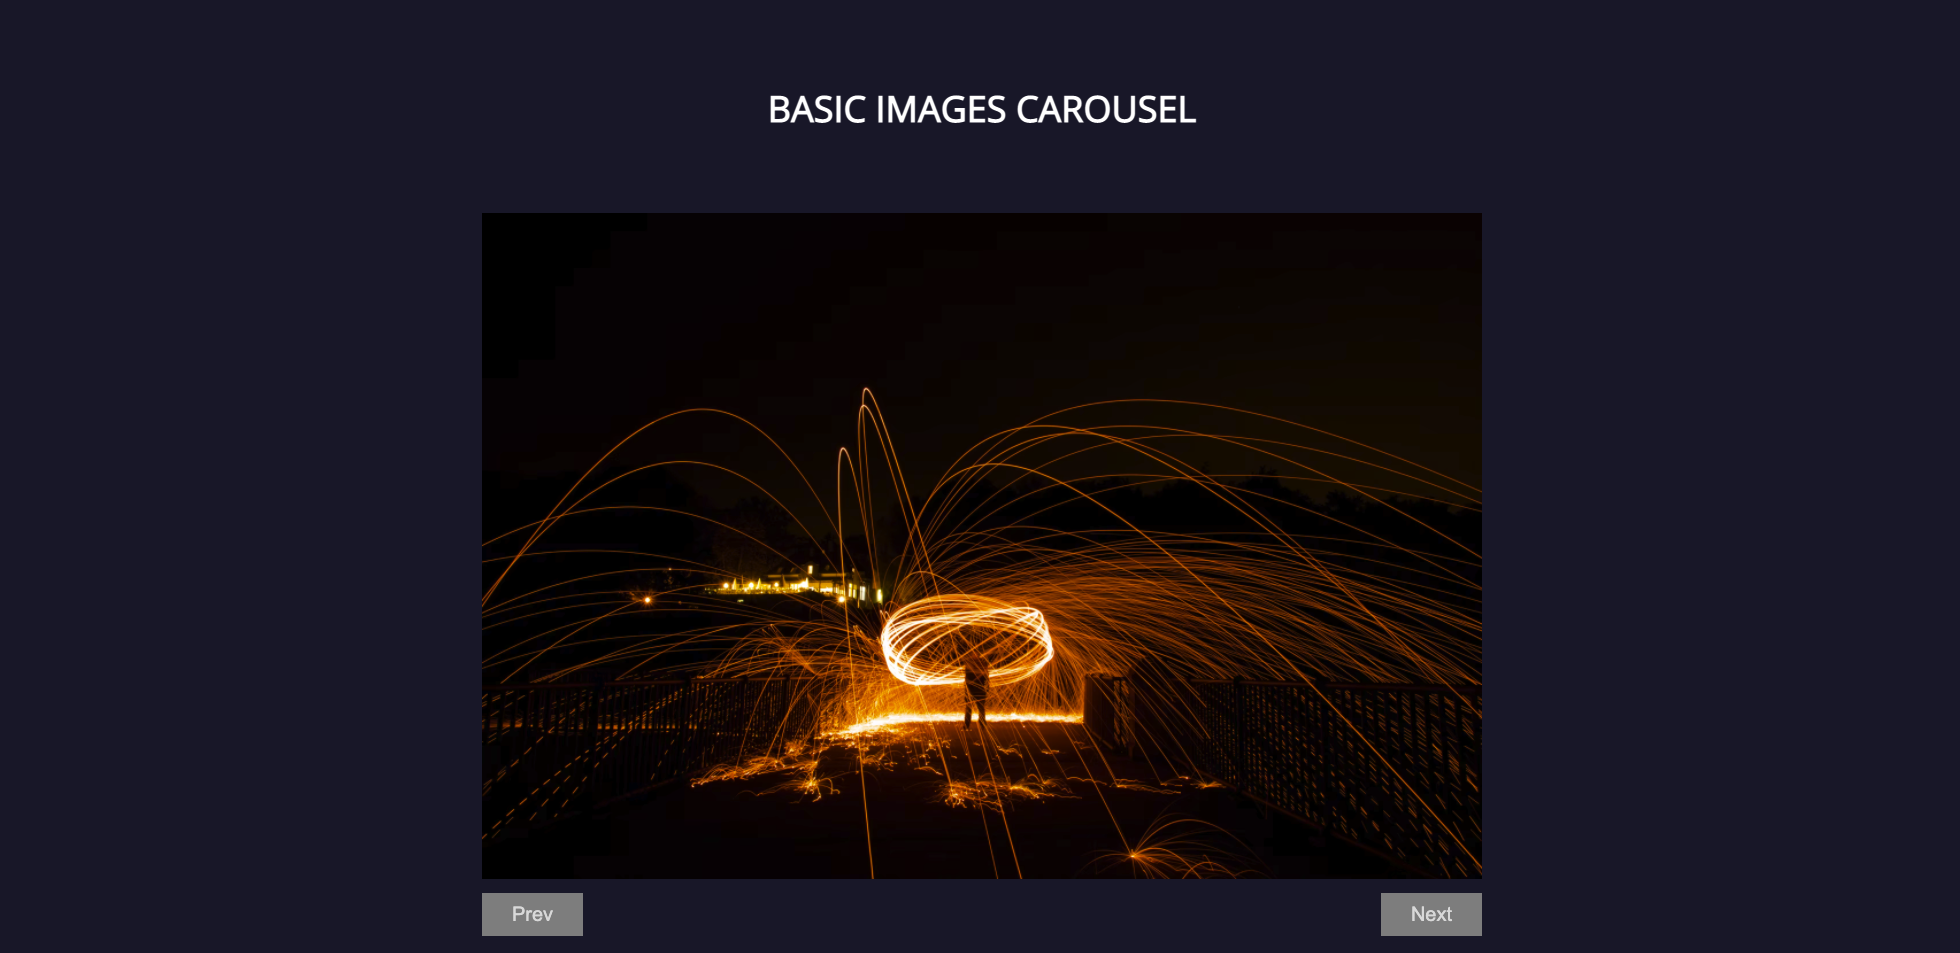
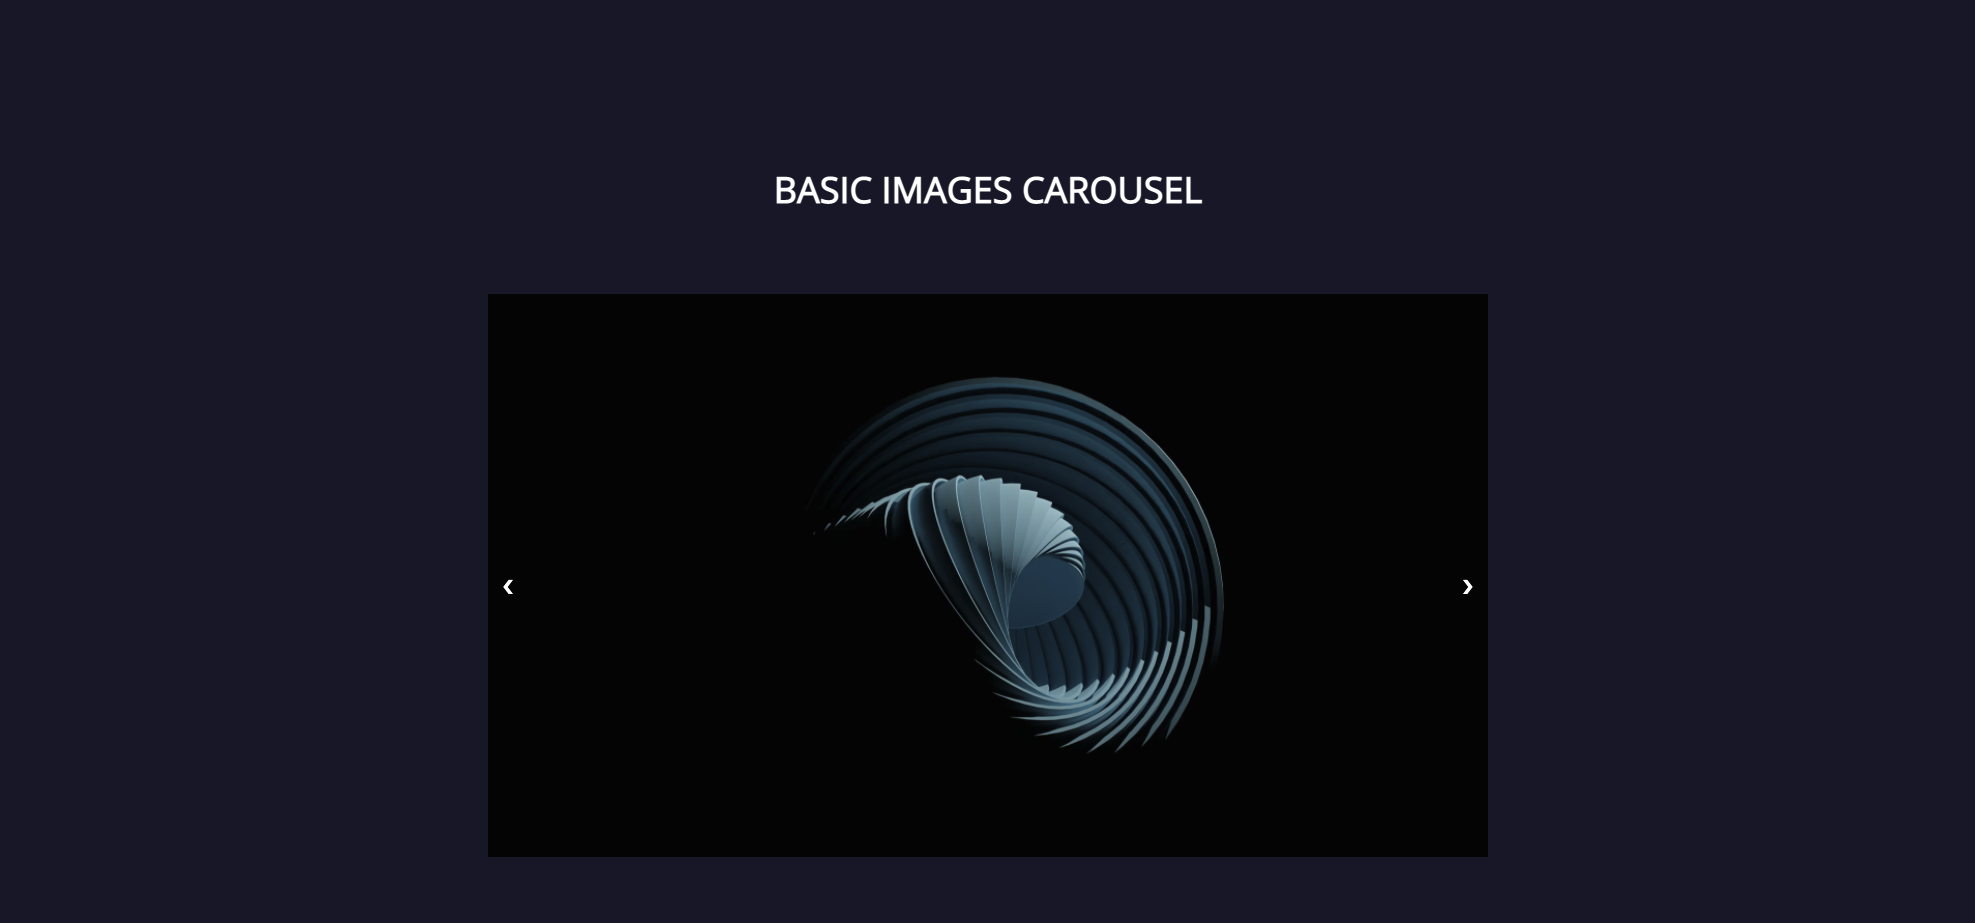
Update styles.

diff --git a/41 - Basic-Carousel/styles.css b/41 - Basic-Carousel/styles.css
@@ -35,32 +35,35 @@ h1 {
   text-transform: uppercase;
 }
 
-.slider{
-  margin:50px auto;
-  width:50%;
+.slider {
+  margin: 50px auto;
+  width: 50%;
+  position: relative;
 }
 
-.img-box img{
-  width:100%;
+.img-box img {
+  width: 100%;
 }
 
-.controls {
-  display: flex;
-  justify-content: space-between;
-  width:100%;
-}
-
-.btn{
-  border:none;
-  outline:none;
-  background:#888;
-  padding:10px 30px;
+.btn {
+  position: absolute;
+  top: 50%;
+  color: #fff;
+  background: transparent;
+  border: none;
+  outline: none;
+  margin-top: -22px;
+  padding: 20px 15px;
   font-size: 20px;
-  color:#ddd;
   cursor: pointer;
-  margin:10px 0;
+  transition: 0.6s ease;
+  border-radius: 0 5px 5px 0;
 }
 
-.btn:hover{
-  background-color: #5c1ed5;
+.btn:hover {
+  background-color: rgba(0, 0, 0, 0.8);
+}
+
+.next {
+  right: 0;
 }

diff --git a/41 - Basic-Carousel/index.html b/41 - Basic-Carousel/index.html
@@ -14,10 +14,8 @@
       <img id="image_container" class="image-container" src="https://images.unsplash.com/photo-1633204339772-9aecca9ac664?ixid=MnwxMjA3fDB8MHxwaG90by1wYWdlfHx8fGVufDB8fHx8&ixlib=rb-1.2.1&auto=format&fit=crop&w=1740&q=80" />
     </div>
 
-    <div class="controls">
-      <button id="btn_previous" class="btn">Prev</button>
-      <button id="btn_next" class="btn">Next</button>
-    </div>
+    <button id="btn_previous" class="btn">&#10094;</button>
+    <button id="btn_next" class="btn next">&#10095;</button>
   </div>
   <script src="app.js"></script>
 </body>
